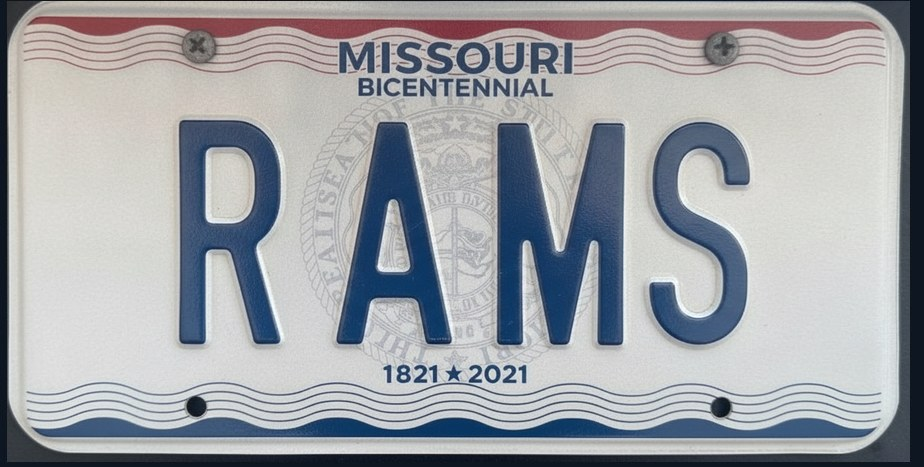
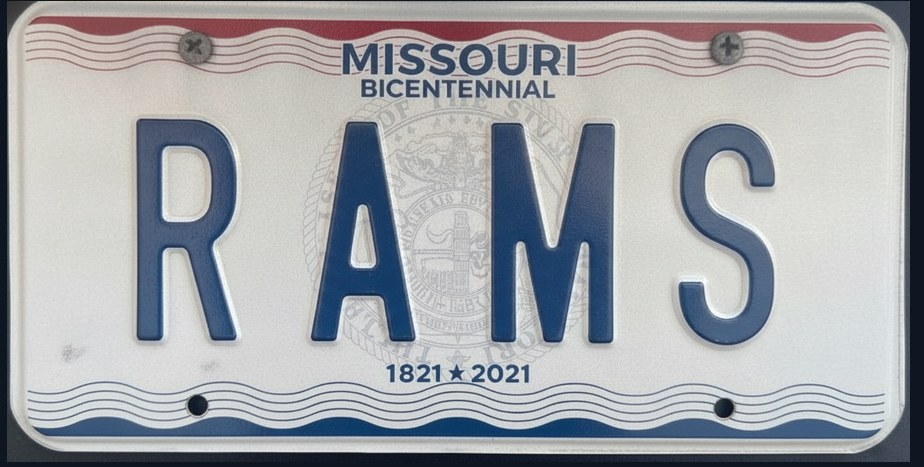
Re-emboss the RAMS plate on a fixed pitch, and make letter spacing a measured gate
The owner caught what the spelling check missed: the gaps were uneven — 67, 55,
31 thousandths of the plate's width, the last gap HALF the first, 30% spread.
Models kern like typography; real embossing dies stamp on a fixed pitch, and
uneven pitch is what makes a fake plate read fake at a glance.

Two changes so this is caught by the pipeline instead of by the owner:

- The prompt now demands the die, not the typography: "stamped on a FIXED PITCH,
  every gap between adjacent characters identical, monospaced, no typographic
  kerning." On a 4-variant run that cut every candidate to 8-13% spread.

- `--gaps` measures instead of squinting: threshold the navy letter band,
  project to columns, report the spread of the inter-letter gaps. Ship nothing
  over ~15%. The shipped plate is the 8% variant; the old one flags itself
  "uneven, do not ship" under the same check.

CLAUDE.md's plate section records this as the pipeline's second trap, beside the
misspelling one. Both checks are now part of a new school build: spelling by eye,
pitch by measurement.

Claude-Session: https://claude.ai/code/session_01Vb8ax2hEAcQpndqY71SHeP

diff --git a/CLAUDE.md b/CLAUDE.md
@@ -64,6 +64,11 @@
   ("letter-for-letter P, I, O, ...") — it lowers the rate but does not zero it.
 - Prompt shape that works: name what the source says now, demand ONE change,
   spell the new text, then "Do not change anything else about the image."
+- **Second trap: letter PITCH.** Models kern like typography; real dies stamp on
+  a fixed pitch, and the first shipped RAMS had a final gap HALF its first
+  (30% spread) — obvious to the owner at a glance. The prompt now demands
+  "fixed pitch, every gap identical, no typographic kerning" (cuts spread to
+  8-13%), and `--gaps` measures it: ship nothing over ~15%.
 
 ## Per-school research kit (repeat for every school)
 
